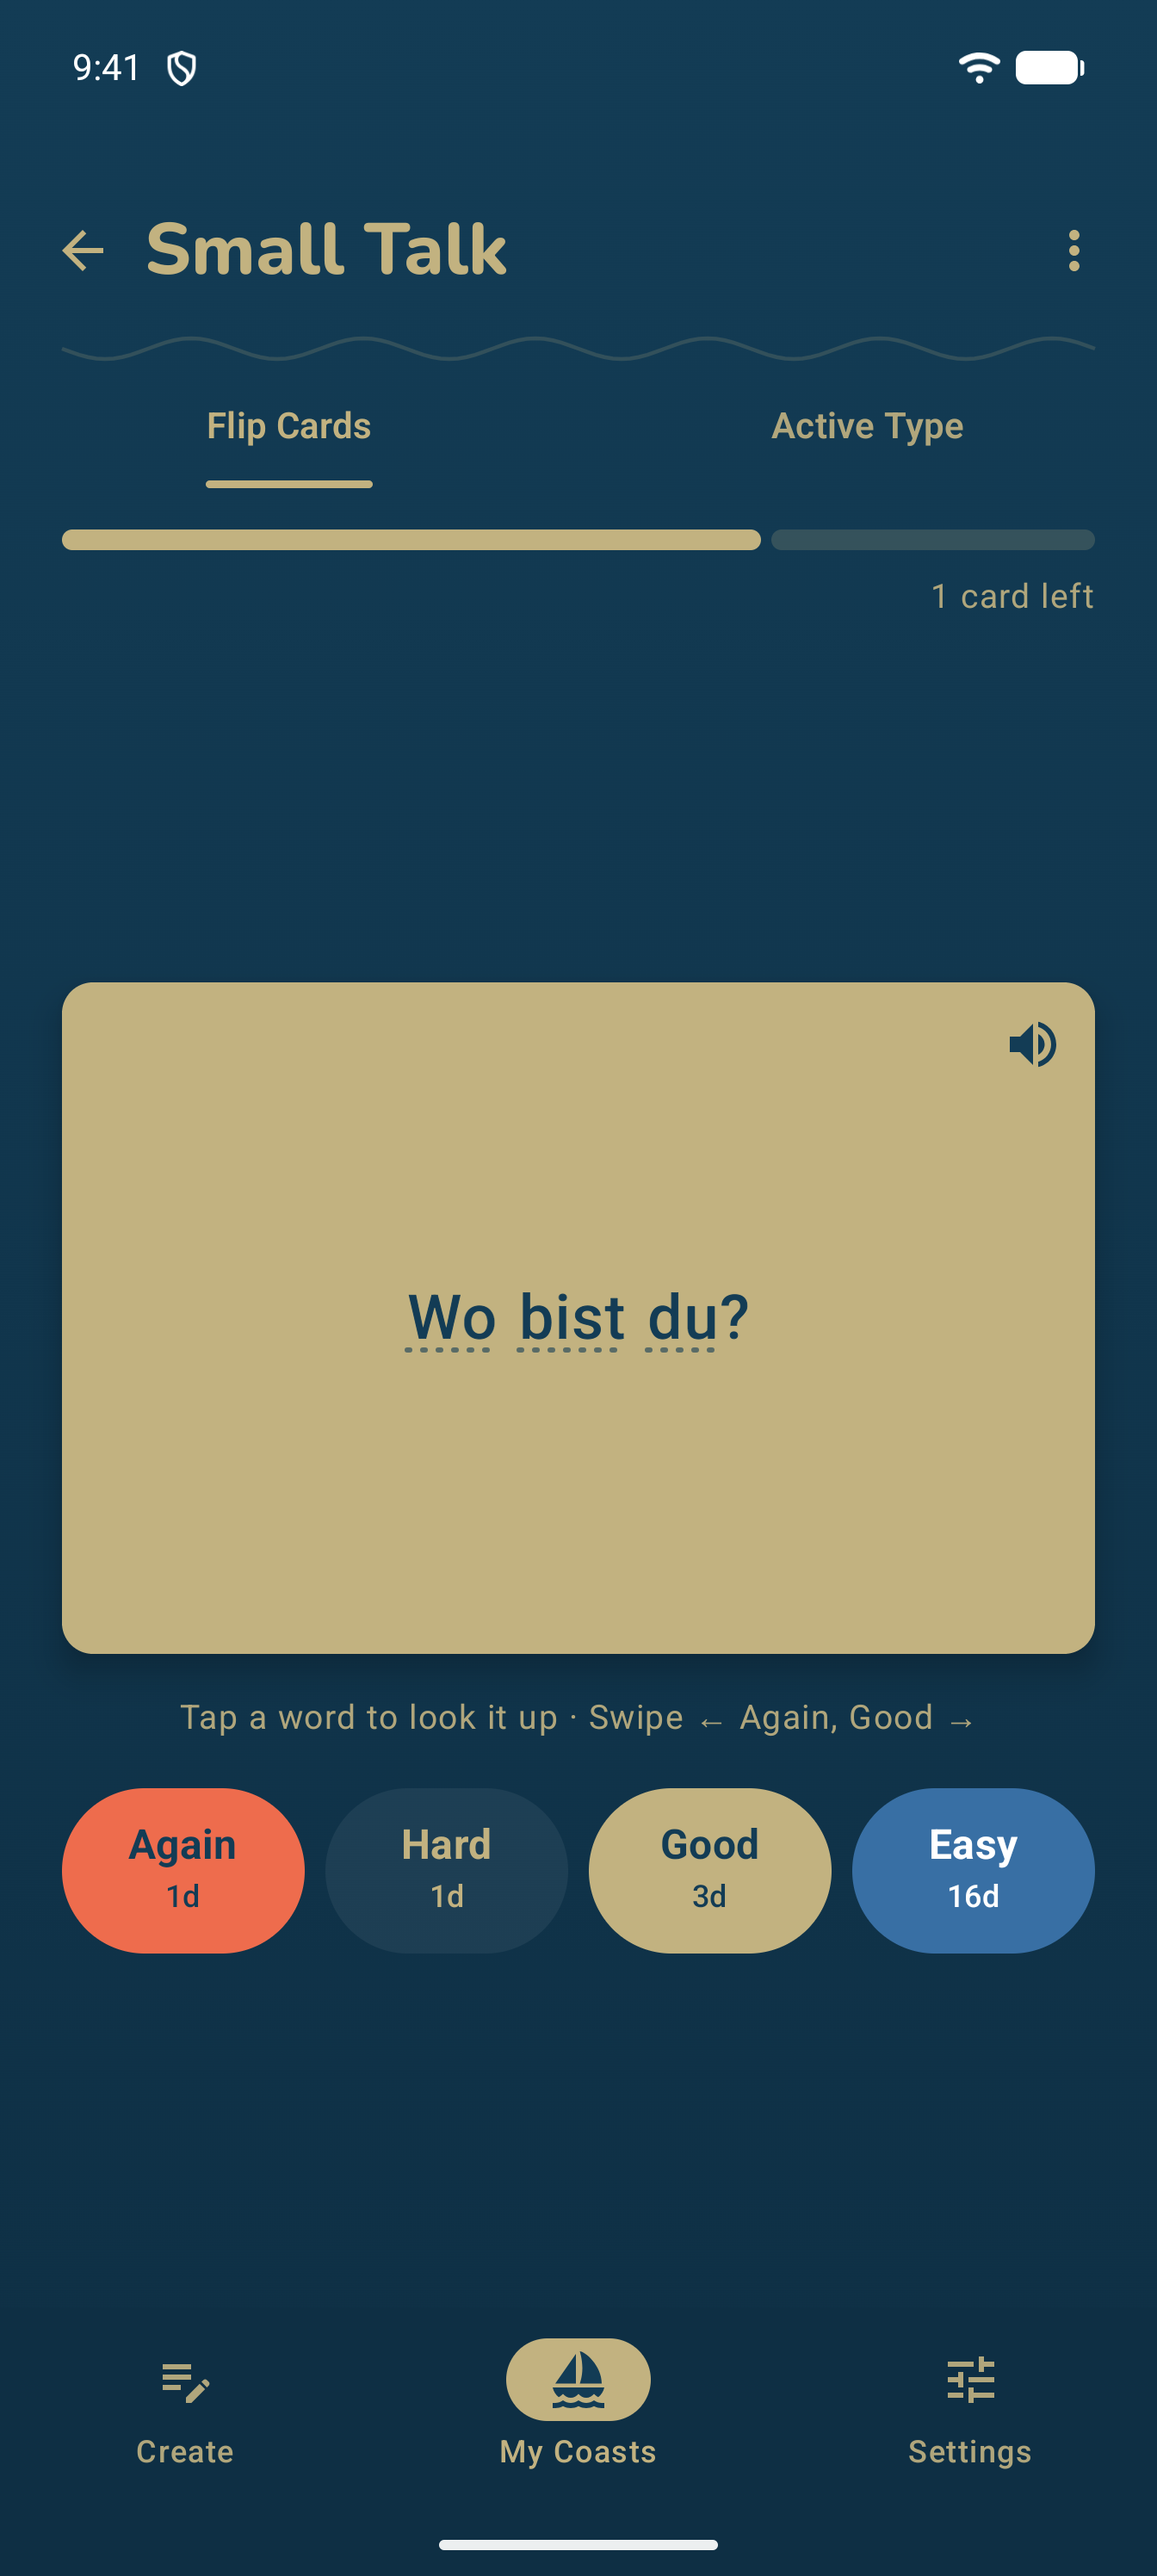
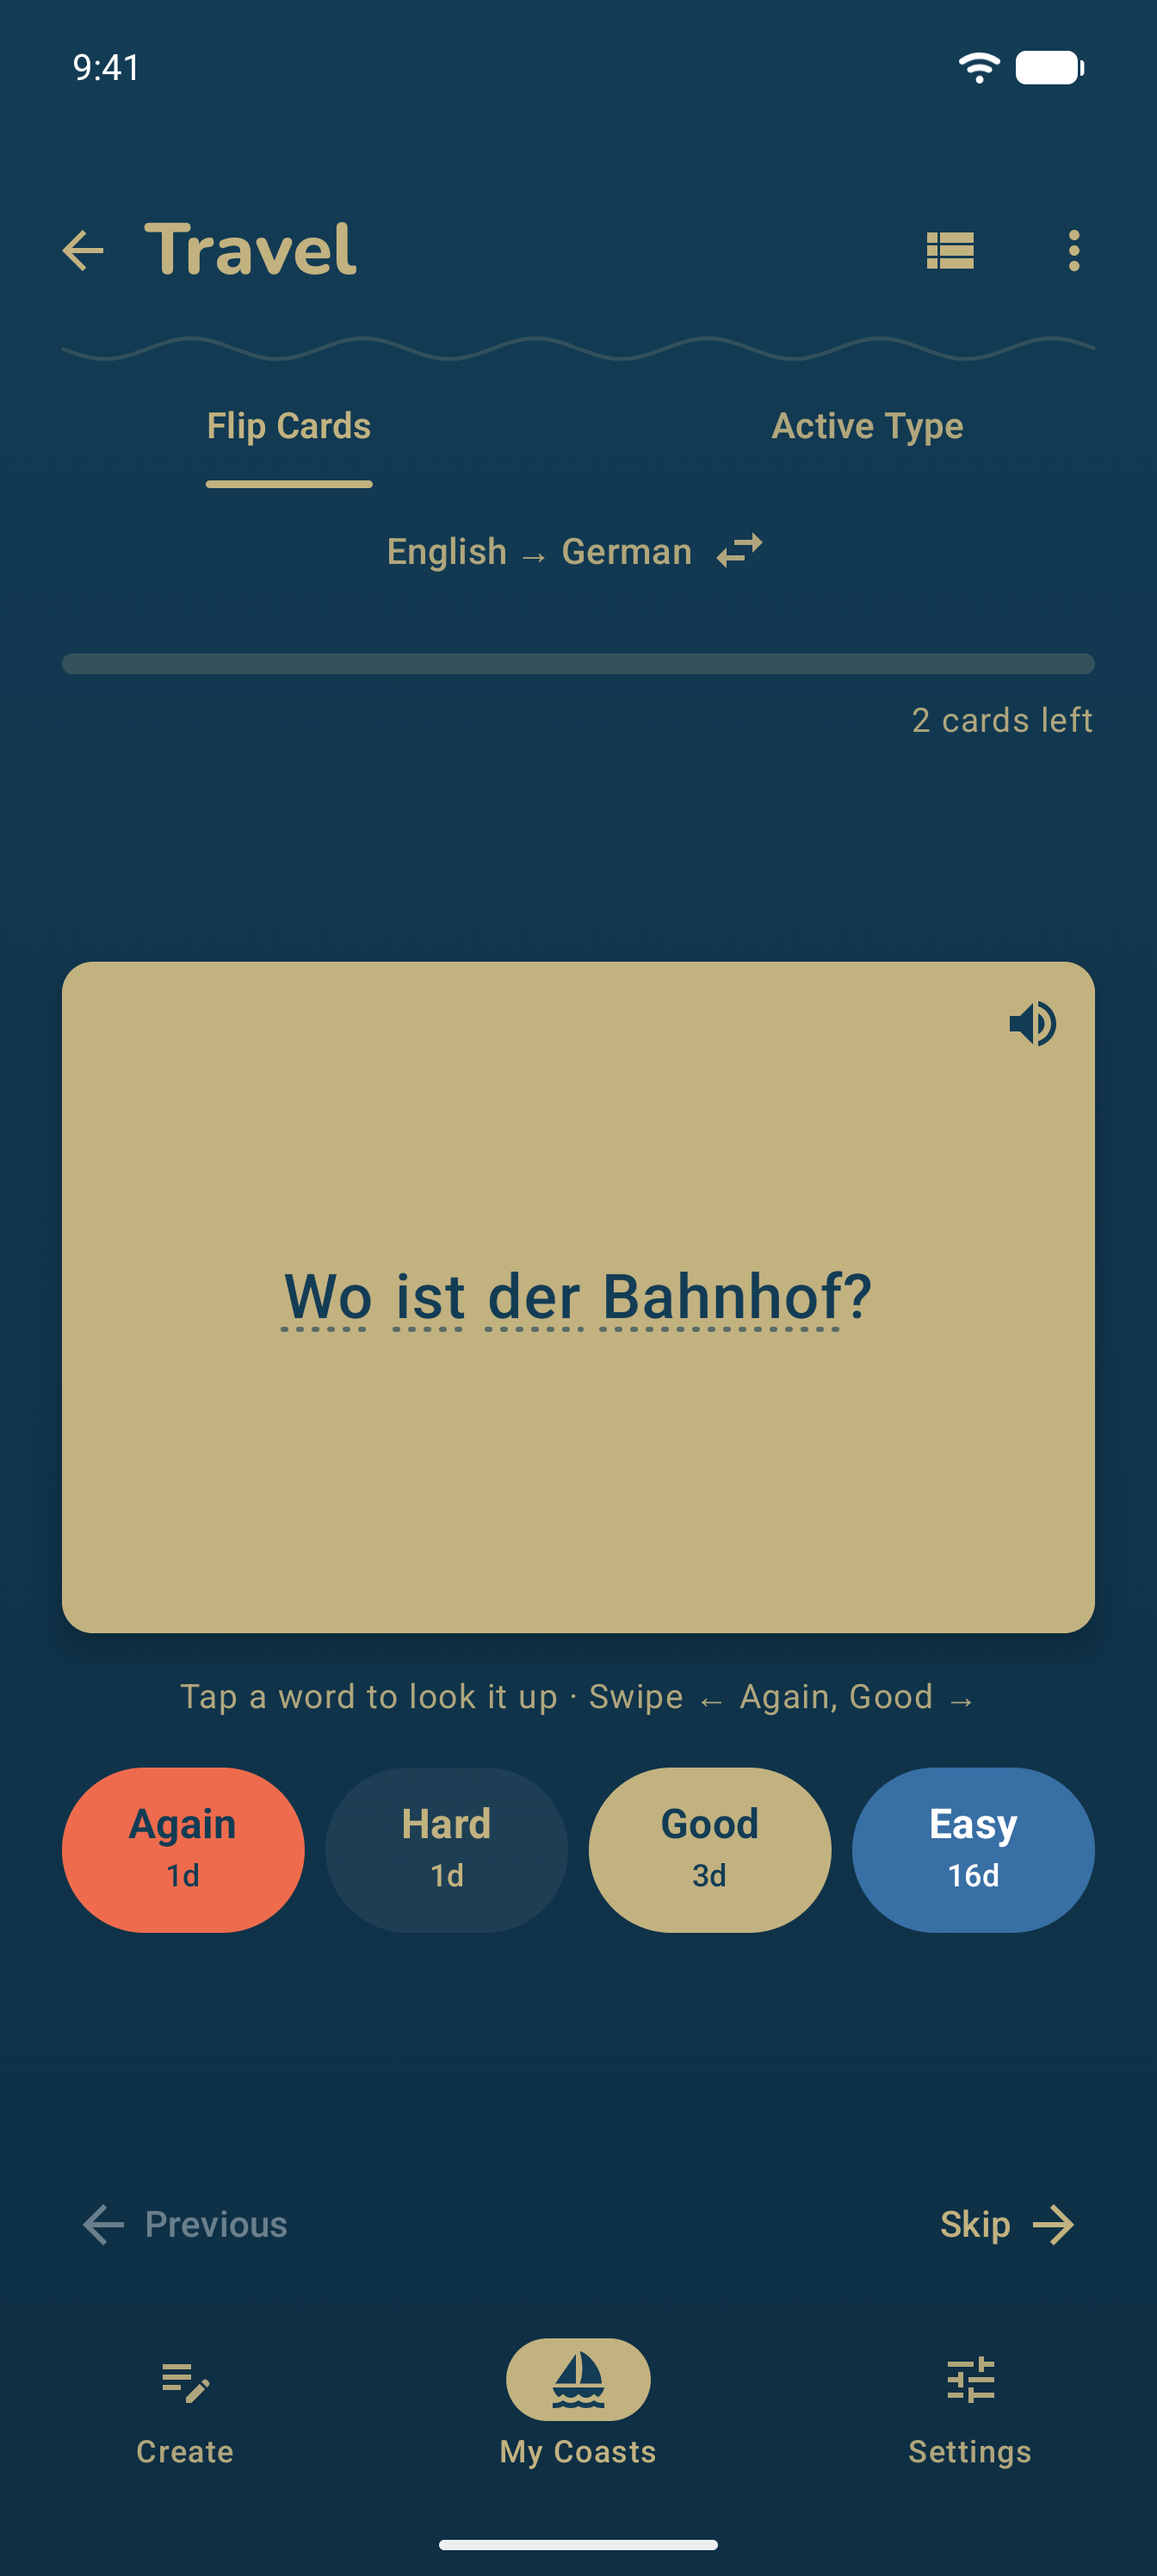
Bring the README up to date for v1.5
New screenshots of an island's card list, search and the home-screen
widget, and fresh ones of My Coasts (search icon), the coast grid (island
menus) and studying (direction toggle), all with a clean demo-mode
status bar. The project structure, tech stack, test overview, guide
description and release notes now cover the island list, search, the
widget and backups.

diff --git a/README.md b/README.md
@@ -25,10 +25,13 @@ Language Coast is a flashcard app that changes how you build vocabulary. It comb
   <img src="docs/screenshots/create.png" alt="Home screen with today's due cards, the new card form and recently added cards" width="200" />
   <img src="docs/screenshots/my-coast.png" alt="My Coasts with the study streak and a German and an Icelandic coast, each showing its due cards" width="200" />
   <img src="docs/screenshots/coast.png" alt="German Coast with its Language Islands and how many cards on each are due" width="200" />
-  <img src="docs/screenshots/study.png" alt="Flipped flashcard with a read-aloud button and Again, Hard, Good and Easy buttons showing when the card comes back" width="200" />
+  <img src="docs/screenshots/island-cards.png" alt="The cards of the Small Talk island with their translations, alternatives and when each is due" width="200" />
+  <img src="docs/screenshots/study.png" alt="Flipped flashcard with the study direction, a read-aloud button and Again, Hard, Good and Easy buttons showing when the card comes back" width="200" />
   <img src="docs/screenshots/alternatives.png" alt="Sheet with other ways to say a sentence, a note on formal and informal forms, and read-aloud and Make main buttons" width="200" />
+  <img src="docs/screenshots/search.png" alt="Search results across all coasts, each showing its coast, island and when it is due" width="200" />
   <img src="docs/screenshots/settings.png" alt="Settings with the native language and the choice of on-device, Gemini or OpenRouter translation" width="200" />
   <img src="docs/screenshots/notification.png" alt="Daily study reminder saying how many cards are due" width="200" />
+  <img src="docs/screenshots/widget.png" alt="Home-screen widget with the study streak and the cards due today" width="200" />
 </p>
 
 ## ✨ Features
@@ -74,7 +77,7 @@ Language Coast is a flashcard app that changes how you build vocabulary. It comb
 - A daily reminder, scheduled with **WorkManager**: at a surprise time between 9:00 and 21:00, or at a fixed time you pick in Settings. It can also be turned off.
 - **Home-screen widget**: the cards due today and your streak, a gentler nudge than a notification. It refreshes every hour and whenever you leave the app, and tapping it opens the app.
 
-### 📤 Export & import
+### 📤 Export, import & backup
 - **Export to Anki**: save one coast or all of them as a text file that Anki imports with *File › Import*. Each island becomes a subdeck (e.g. *German Coast::Greetings*), and alternatives and notes go on the back of the card. Review progress isn't exported, so cards start fresh in Anki.
 - **Export to Markdown**: one table per island, to read, print or keep in your notes app.
 - **Import from CSV or tab-separated files**, e.g. a spreadsheet or an Anki notes export. A third column (or Anki's deck column) picks the island, a header row is detected, and cards the coast already has are skipped. Imports can be undone.
@@ -82,7 +85,7 @@ Language Coast is a flashcard app that changes how you build vocabulary. It comb
 - Files are saved and opened with the system file picker, so they can go to Downloads, Google Drive and so on. The app needs no storage permission.
 
 ### ❓ Built-in guide
-- **How to use**: a button in Settings opens a short guide to coasts and islands, creating cards, translation, studying, streaks and reminders, and exporting and importing.
+- **How to use**: a button in Settings opens a short guide to coasts and islands, creating cards, translation, studying, streaks, reminders and the widget, and exporting, importing and backing up.
 
 **Supported languages:** all 28 dict.cc languages (Albanian, Bosnian, Bulgarian, Croatian, Czech, Danish, Dutch, English, Esperanto, Finnish, French, German, Greek, Hungarian, Icelandic, Italian, Latin, Norwegian, Polish, Portuguese, Romanian, Russian, Serbian, Slovak, Spanish, Swedish, Turkish, Ukrainian), plus Japanese and Korean without dictionary lookup. The language picker can be searched by English or native name (e.g. *Deutsch*, *Suomi*).
 
@@ -100,6 +103,8 @@ Language Coast is a flashcard app that changes how you build vocabulary. It comb
 | Spaced repetition | [FSRS-5](https://github.com/open-spaced-repetition/awesome-fsrs/wiki/The-Algorithm) with its default parameters (implemented in `data/SpacedRepetition.kt`) |
 | Text-to-speech | Android [`TextToSpeech`](https://developer.android.com/reference/android/speech/tts/TextToSpeech) with the voices installed on the phone |
 | Background work | [WorkManager](https://developer.android.com/topic/libraries/architecture/workmanager) |
+| Home-screen widget | [`AppWidgetProvider`](https://developer.android.com/develop/ui/views/appwidgets) with `RemoteViews` (no extra library) |
+| Backups | [kotlinx.serialization](https://github.com/Kotlin/kotlinx.serialization) JSON |
 | Testing | JUnit 4, kotlinx-coroutines-test, hand-written fakes |
 | CI/CD | GitHub Actions (tests on every push, signed APK on every release tag) |
 
@@ -132,13 +137,16 @@ app/src/main/java/com/andreaserick/languagecoast/
 ├── speech/                  # Reading cards aloud (text-to-speech)
 ├── ui/
 │   ├── coast/               # Each feature has a Screen + ViewModel
-│   ├── components/          # Shared composables (screen header, language picker, dropdown, undo snackbar)
+│   ├── components/          # Shared composables (screen header, card row, edit card sheet, language picker, undo snackbar)
 │   ├── create/
+│   ├── island/              # An island's card list
 │   ├── mycoast/
-│   ├── settings/
+│   ├── search/
+│   ├── settings/            # Also export, import and backup
 │   ├── study/
 │   └── theme/               # Colors, typography and Material theme
-└── util/                    # dict.cc lookup helpers
+├── util/                    # dict.cc lookup helpers
+└── widget/                  # Home-screen widget (streak and cards due)
 ```
 
 ## 🚀 Getting started
@@ -164,11 +172,11 @@ app/src/main/java/com/andreaserick/languagecoast/
 ```bash
 ./gradlew testDebugUnitTest
 ```
-The unit tests cover the ViewModels, the FSRS scheduler, the streak rules, prompt building and response parsing (Gemini and OpenRouter), export and import, and answer checking in Active Type. They run on every push via GitHub Actions. Database migrations are tested on a device or emulator with `./gradlew connectedDebugAndroidTest`.
+The unit tests cover the ViewModels, the FSRS scheduler, the streak rules, prompt building and response parsing (Gemini and OpenRouter), editing and searching cards, export, import, backup and restore, answer checking in Active Type (both directions) and the widget's texts. They run on every push via GitHub Actions. Database migrations are tested on a device or emulator with `./gradlew connectedDebugAndroidTest`.
 
 ## 📦 Releases
 
-Signed APKs are published on the [Releases](https://github.com/Andreas-Erick/LanguageCoast/releases) page. Download the APK on an Android device to install it. You may need to allow installs from unknown sources. Installing a new version over an old one keeps your cards and progress.
+Signed APKs are published on the [Releases](https://github.com/Andreas-Erick/LanguageCoast/releases) page. Download the APK on an Android device to install it. You may need to allow installs from unknown sources. Installing a new version over an old one keeps your cards and progress. To move to a new phone, use *Back up* in Settings and *Restore* the file on the new phone.
 
 The released APK is built for ARM phones (practically every Android phone) to keep it small. To run the app on an x86 emulator, build it from Android Studio instead.
 
